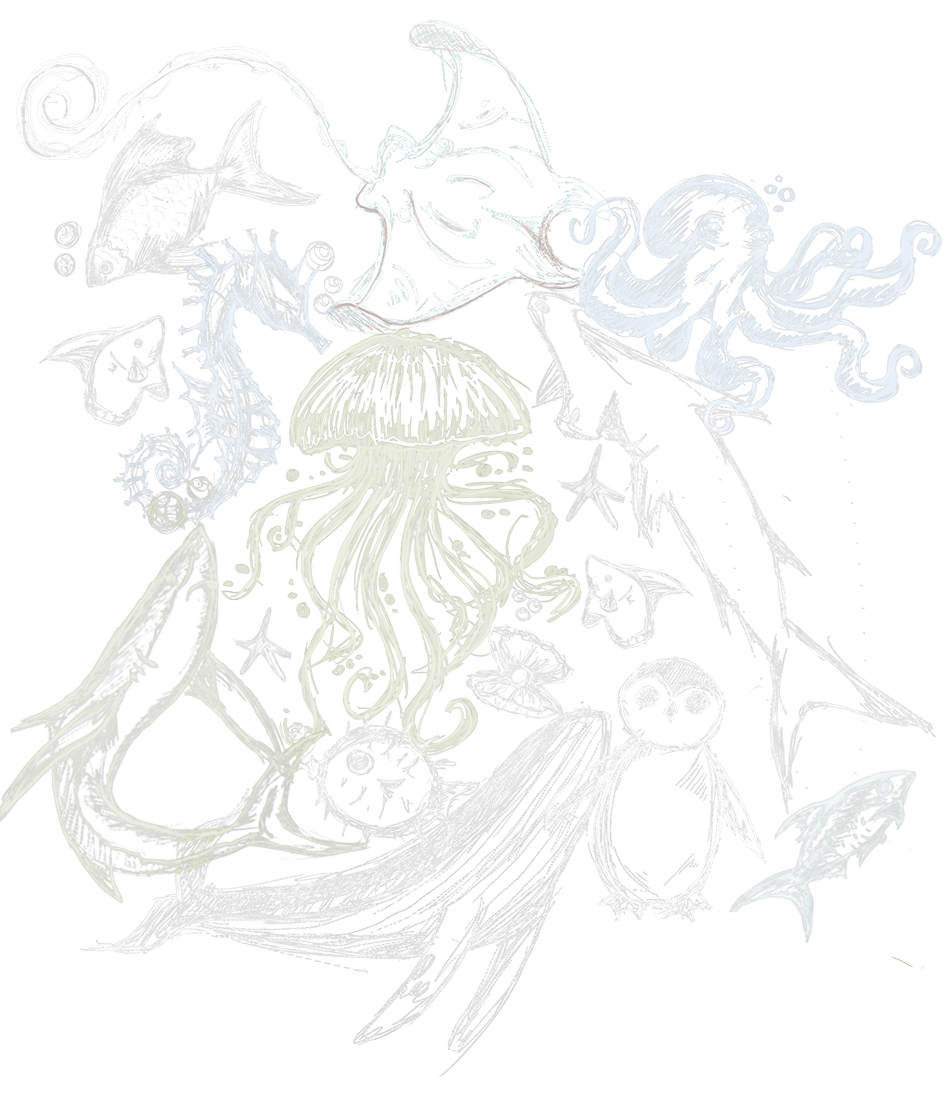
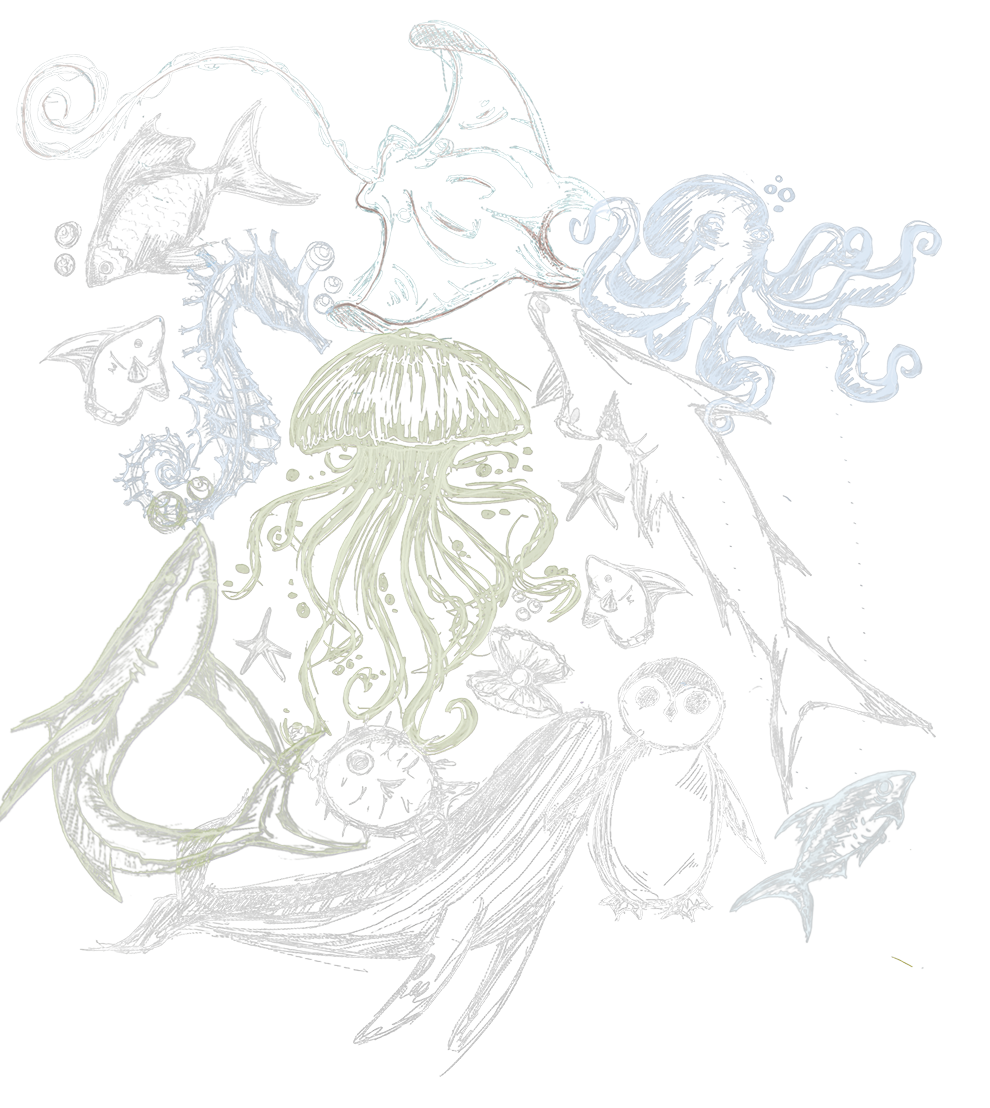
Dark and Light Mode

diff --git a/src/components/Portfolio.jsx b/src/components/Portfolio.jsx
@@ -1,6 +1,6 @@
 import { useEffect, useRef, useState } from 'react';
 import PropTypes from 'prop-types';
-import { Figma, Linkedin, Mail, Menu, X, ExternalLink, Github } from 'lucide-react';
+import { Figma, Linkedin, Mail, Menu, X, ExternalLink, Github, Sun, Moon } from 'lucide-react';
 
 const VerticalScrollingText = () => (
   <div className="absolute right-0 top-0 bottom-0 w:[100rem] bg-[#8169B1] overflow-hidden md:w-12">
@@ -1408,20 +1408,20 @@ const HomeNavigation = ({ setActivePage, setHoveredNav }) => {
         <nav className="bg-[#8169B1] text-white p-2 flex justify-between items-center text-lg font-didact">
           <div className="text-xl font-bold ml-4">VB</div>
           <div className="flex font-bold  font-didact gap-6 text-xl mr-8">
-            <a 
-              onClick={() => setActivePage('work')} 
+            <a
+              onClick={() => { setActivePage('work'); setHoveredNav(null); }}
               onMouseEnter={() => setHoveredNav('work')}
               onMouseLeave={() => setHoveredNav(null)}
               className="cursor-pointer hover:text-purple-200 transform transition-transform duration-300 hover:-translate-y-1"
             >Work</a>
-            <a 
-              onClick={() => setActivePage('playground')} 
+            <a
+              onClick={() => { setActivePage('playground'); setHoveredNav(null); }}
               onMouseEnter={() => setHoveredNav('playground')}
               onMouseLeave={() => setHoveredNav(null)}
               className="cursor-pointer hover:text-purple-200 transform transition-transform duration-300 hover:-translate-y-1"
             >Playground</a>
-            <a 
-              onClick={() => setActivePage('resume')} 
+            <a
+              onClick={() => { setActivePage('resume'); setHoveredNav(null); }}
               onMouseEnter={() => setHoveredNav('resume')}
               onMouseLeave={() => setHoveredNav(null)}
               className="cursor-pointer hover:text-purple-200 transform transition-transform duration-300 hover:-translate-y-1"
@@ -1441,9 +1441,28 @@ HomeNavigation.propTypes = {
 
 
 // HomePage Component - Fixed to prevent scroll and fit content properly
-const HomePage = ({ hoveredNav }) => {
+const HomePage = ({ hoveredNav, isDarkMode, setIsDarkMode }) => {
+  const outerBg = isDarkMode ? '#1B1B1B' : '#E4E4E2';
+  const rightBg = isDarkMode ? '#1B1B1B' : '#D9D9D9';
+  const strokeMatchBg = isDarkMode ? '#1B1B1B' : '#D9D9D9';
+  const fillMatchBg = isDarkMode ? '#1B1B1B' : '#D9D9D9';
+  const homeArt = isDarkMode ? 'images/HomepageArtNew.png' : 'images/HomepageArt.png';
+  const workArt = isDarkMode ? 'images/WorkPageArtNew4.png' : 'images/WorkPageArt.png';
+  const playgroundArt = isDarkMode ? 'images/PlaygroundPageArtNew2.png' : 'images/PlaygroundPageArt.png';
+  const resumeArt = isDarkMode ? 'images/ResumePageArtNew2.png' : 'images/ResumePageArt.png';
+
   return (
-  <div className="min-h-screen flex flex-col lg:flex-row bg-[#E4E4E2] overflow-hidden">
+  <div className="min-h-screen flex flex-col lg:flex-row overflow-hidden" style={{ backgroundColor: outerBg }}>
+    {/* Mode toggle */}
+    <button
+      onClick={() => setIsDarkMode((prev) => !prev)}
+      className="fixed bottom-4 right-4 z-50 bg-[#8169B1] text-white p-2 sm:p-3 rounded-full shadow-lg hover:bg-purple-600 transition-all duration-300 hover:scale-110 flex items-center justify-center"
+      aria-label={isDarkMode ? 'Switch to light mode' : 'Switch to night mode'}
+      title={isDarkMode ? 'Switch to light mode' : 'Switch to night mode'}
+    >
+      {isDarkMode ? <Sun className="w-5 h-5 sm:w-6 sm:h-6" /> : <Moon className="w-5 h-5 sm:w-6 sm:h-6" />}
+    </button>
+
     {/* Left side - About Me Section */}
     <div className="w-full lg:w-2/5 min-h-screen">
       <div className="bg-[#1B1B1B] h-full relative">
@@ -1511,73 +1530,75 @@ const HomePage = ({ hoveredNav }) => {
     </div>
 
     {/* Right side with background art */}
-    <div className="w-full lg:w-3/5 min-h-screen relative bg-[#D9D9D9]">
+    <div className="w-full lg:w-3/5 min-h-screen relative" style={{ backgroundColor: rightBg }}>
       {/* Background Art Images - crossfade on nav hover */}
       {/* Default homepage art - fades out when hovering nav */}
-      <div 
+      <div
         className="absolute inset-0 bg-no-repeat pointer-events-none transition-opacity duration-700 ease-in-out"
         style={{
-          backgroundImage: 'url(images/HomepageArt.png)',
+          backgroundImage: `url(${homeArt})`,
           backgroundPosition: '58% center',
           backgroundSize: '81%',
-          opacity: hoveredNav ? 5 : 0.95,
+          opacity: hoveredNav ? 0 : 1,
         }}
       />
       {/* Work page art */}
-      <div 
+      <div
         className="absolute inset-0 bg-no-repeat pointer-events-none transition-opacity duration-700 ease-in-out"
         style={{
-          backgroundImage: 'url(images/WorkPageArt.png)',
-          backgroundPosition: '58% center',
-          backgroundSize: '81%',
-          opacity: hoveredNav === 'work' ? 0.95 : 0,
+          backgroundImage: `url(${workArt})`,
+          backgroundPosition: isDarkMode ? '54% 46%' : '58% center',
+          backgroundSize: isDarkMode ? '82%' : '81%',
+          opacity: hoveredNav === 'work' ? 1 : 0,
         }}
       />
       {/* Playground page art */}
-      <div 
+      <div
         className="absolute inset-0 bg-no-repeat pointer-events-none transition-opacity duration-700 ease-in-out"
         style={{
-          backgroundImage: 'url(images/PlaygroundPageArt.png)',
+          backgroundImage: `url(${playgroundArt})`,
           backgroundPosition: '58% center',
           backgroundSize: '81%',
-          opacity: hoveredNav === 'playground' ? 0.95 : 0,
+          opacity: hoveredNav === 'playground' ? 1: 0,
         }}
       />
       {/* Resume page art */}
-      <div 
+      <div
         className="absolute inset-0 bg-no-repeat pointer-events-none transition-opacity duration-700 ease-in-out"
         style={{
-          backgroundImage: 'url(images/ResumePageArt.png)',
+          backgroundImage: `url(${resumeArt})`,
           backgroundPosition: '58% center',
           backgroundSize: '81%',
-          opacity: hoveredNav === 'resume' ? 0.95 : 0,
+          opacity: hoveredNav === 'resume' ? 1 : 0,
         }}
       />
       
       <div className="relative z-10 flex flex-col items-center bg-transparent justify-end p-4 sm:p-6 lg:p-8 h-full pb-8 lg:pb-12">
           {/* Text content */}
           <div className="text-center px-4 sm:px-6">
-            <h1 
-              className="text-3xl sm:text-4xl md:text-5xl lg:text-6xl xl:text-7xl font-bold text-[#8169B1] font-didact mb-2 sm:mb-3 leading-tight text-[#8771B4]"
+            <h1
+              className="text-3xl sm:text-4xl md:text-5xl lg:text-6xl xl:text-7xl font-bold text-[#8771B4] font-didact mb-2 sm:mb-3 leading-tight"
               style={{
-                WebkitTextStroke: '20px #D9D9D9',
+                WebkitTextStroke: `20px ${strokeMatchBg}`,
                 paintOrder: 'stroke fill'
               }}
             >
             Vaishnavi Bhalla
           </h1>
-            <h2 
-              className="text-lg sm:text-xl md:text-2xl lg:text-3xl xl:text-4xl text-[#D9D9D9] mb-2 sm:mb-3"
+            <h2
+              className="text-lg sm:text-xl md:text-2xl lg:text-3xl xl:text-4xl mb-2 sm:mb-3"
               style={{
+                color: fillMatchBg,
                 WebkitTextStroke: '8px #8169B1',
                 paintOrder: 'stroke fill'
               }}
             >
             BS in Computational Media
           </h2>
-            <p 
-              className="text-base sm:text-lg md:text-xl lg:text-2xl xl:text-3xl text-[#D9D9D9] leading-relaxed"
+            <p
+              className="text-base sm:text-lg md:text-xl lg:text-2xl xl:text-3xl leading-relaxed"
               style={{
+                color: fillMatchBg,
                 WebkitTextStroke: '8px #8169B1',
                 paintOrder: 'stroke fill'
               }}
@@ -1592,7 +1613,9 @@ const HomePage = ({ hoveredNav }) => {
 };
 
 HomePage.propTypes = {
-  hoveredNav: PropTypes.string
+  hoveredNav: PropTypes.string,
+  isDarkMode: PropTypes.bool.isRequired,
+  setIsDarkMode: PropTypes.func.isRequired
 };
 
 const SideNavigation = ({ activePage, setActivePage }) => {
@@ -3109,6 +3132,7 @@ const ResumePage = () => {
 const Portfolio = () => {
   const [activePage, setActivePage] = useState('home');
   const [hoveredNav, setHoveredNav] = useState(null);
+  const [isDarkMode, setIsDarkMode] = useState(false);
 
   // Check if current page is a project detail page
   const isProjectPage = ['de-terminal', 'monthly', 'graphic-med', 'spotify', 'studyhive'].includes(activePage);
@@ -3118,7 +3142,7 @@ const Portfolio = () => {
       {activePage === 'home' ? (
         <>
           <HomeNavigation setActivePage={setActivePage} setHoveredNav={setHoveredNav} />
-          <HomePage hoveredNav={hoveredNav} />
+          <HomePage hoveredNav={hoveredNav} isDarkMode={isDarkMode} setIsDarkMode={setIsDarkMode} />
         </>
       ) : isProjectPage ? (
         <>
